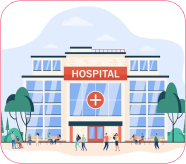
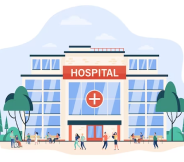
Home UI modified

diff --git a/lib/view/screens/home_view.dart b/lib/view/screens/home_view.dart
@@ -1,3 +1,4 @@
+import 'package:bloodbank_management/res/colors.dart';
 import 'package:bloodbank_management/res/routes_constant.dart';
 import 'package:bloodbank_management/view_model/home_view_model.dart';
 import 'package:firebase_auth/firebase_auth.dart';
@@ -85,7 +86,13 @@ class _HomeViewState extends State<HomeView> {
                                       onTap: () {
                                         router.push('/receivers-list');
                                       },
-                                      child: SizedBox(
+                                      child: Container(
+                                        decoration: BoxDecoration(
+                                            border: Border.all(
+                                                color:
+                                                    LightAppColors().seedColor),
+                                            borderRadius:
+                                                BorderRadius.circular(20)),
                                         height: 140,
                                         width: 140,
                                         child: Image.asset(
@@ -106,7 +113,13 @@ class _HomeViewState extends State<HomeView> {
                                       onTap: () {
                                         router.push('/donors-list');
                                       },
-                                      child: SizedBox(
+                                      child: Container(
+                                        decoration: BoxDecoration(
+                                            border: Border.all(
+                                                color:
+                                                    LightAppColors().seedColor),
+                                            borderRadius:
+                                                BorderRadius.circular(20)),
                                         height: 140,
                                         width: 140,
                                         child: Image.asset(
@@ -129,7 +142,12 @@ class _HomeViewState extends State<HomeView> {
                                   onTap: () {
                                     router.push('/bloodbanks-list');
                                   },
-                                  child: SizedBox(
+                                  child: Container(
+                                    decoration: BoxDecoration(
+                                        border: Border.all(
+                                            color: LightAppColors().seedColor),
+                                        borderRadius:
+                                            BorderRadius.circular(20)),
                                     height: 140,
                                     width: 140,
                                     child: Image.asset(
